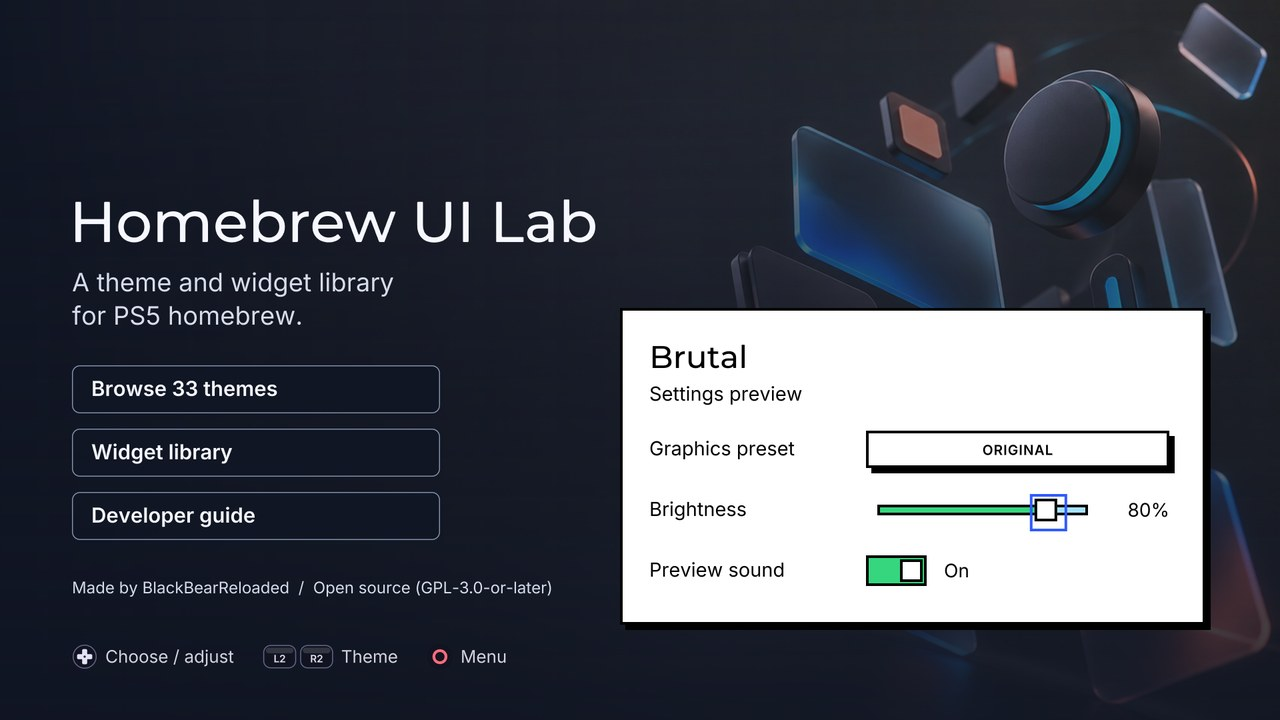
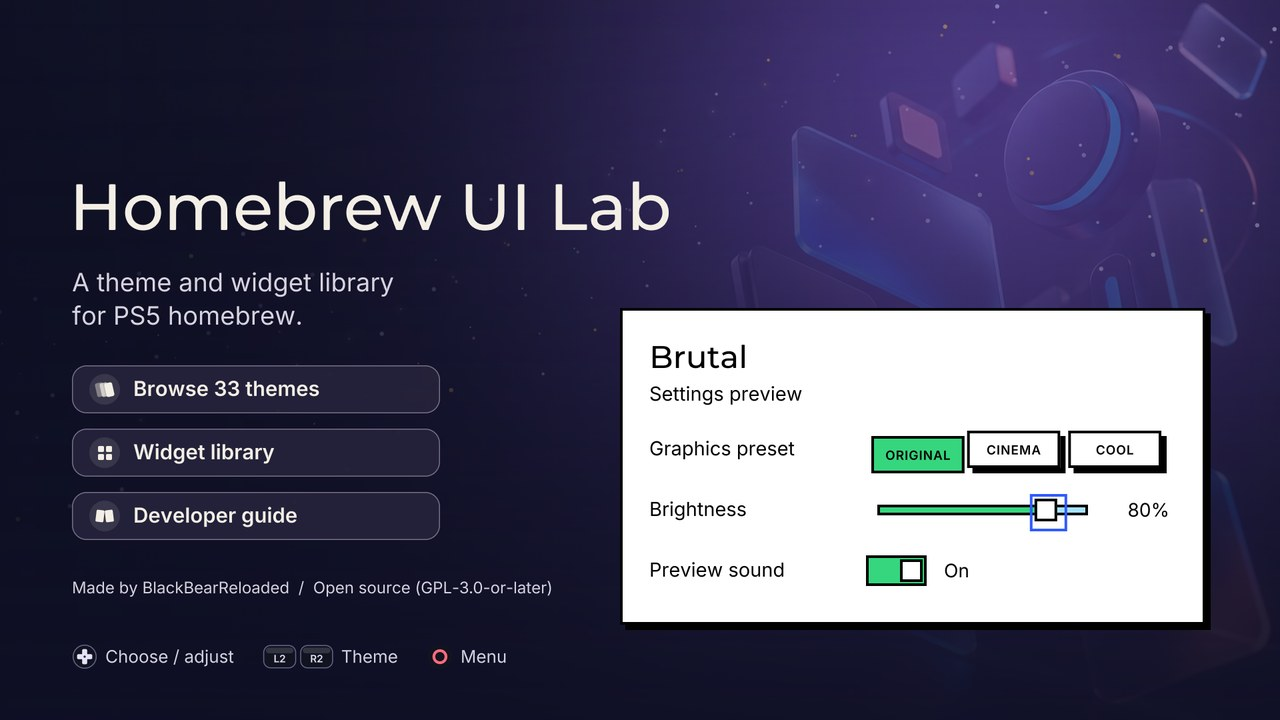
Add a Farlight-inspired particle field and refine landing controls

diff --git a/src/concepts/home.cpp b/src/concepts/home.cpp
@@ -9,6 +9,7 @@
 
 #include <algorithm>
 #include <array>
+#include <cmath>
 #include <cstdio>
 
 namespace hui::concepts
@@ -17,12 +18,15 @@ namespace
 {
 using gfx::Color;
 using gfx::Rect;
-const Color kWhite = Color::rgb(0xf7f8ff);
-const Color kQuiet = Color::rgb(0xd7ddeb);
-const Color kNight = Color::rgb(0x101523);
+const Color kWhite = Color::rgb(0xf4efe6);
+const Color kQuiet = Color::rgb(0xd7d3e0);
+const Color kNight = Color::rgb(0x0e0f24);
+const Color kViolet = Color::rgb(0x42358f);
+const Color kGold = Color::rgb(0xffd166);
 constexpr gfx::ArtworkId kLaunchArtwork = 0x484f4d45;
 constexpr const char *kPresets[] = {"Original", "Cinema", "Cool"};
 constexpr const char *kTechniques[] = {
+    "An indigo particle field with three depths of motion and a still Reduced Motion composition",
     "A playable settings panel drawn from the selected theme's real widget tokens",
     "Large Text reflows the launch actions above the preview",
     "A single developer reference page with the repository address, examples and agent guide",
@@ -119,6 +123,7 @@ class Home final : public app::Concept
         else
             update_actions(input, feedback);
         animate(brightness_motion_, brightness_ / 10.f, dt);
+        animate(preset_motion_, static_cast<float>(preset_), dt);
         animate(sound_motion_, sound_ ? 1.f : 0.f, dt);
         for (int i = 0; i < 3; ++i)
             animate(action_focus_[i], !editing_ && i == action_ ? 1.f : 0.f, dt);
@@ -127,22 +132,7 @@ class Home final : public app::Concept
     void draw(app::Frame &frame) const override
     {
         const ui::Theme theme = ui::with_legibility(ui::themes()[theme_], context_.settings);
-        frame.backdrop = theme.backdrop;
-        frame.backdrop.time = context_.settings.reduced_motion ? 0.f : age_;
-        auto &scene = frame.scene;
-        const gfx::Artwork art =
-            context_.artwork ? context_.artwork->get(kLaunchArtwork) : gfx::Artwork{};
-        if (art.texture)
-        {
-            const Color grade[] = {kWhite, Color::rgb(0xffcfac), Color::rgb(0xb8deff)};
-            scene.image(art.texture, {0, 0, 1920, 1080}, gfx::kFullUv,
-                        gfx::mix(grade[preset_], theme.primary, 0.13f)
-                            .with_alpha(0.53f + brightness_motion_.value * 0.46f));
-        }
-        scene.gradient_rect_h({0, 0, 1920, 1080}, 0, kNight.with_alpha(0.96f),
-                              kNight.with_alpha(0.12f));
-        scene.gradient_rect({0, 0, 1920, 1080}, 0, kNight.with_alpha(0.f),
-                            kNight.with_alpha(0.86f));
+        draw_sky(frame, theme);
         if (builder_)
         {
             draw_builder(frame.overlay);
@@ -151,7 +141,7 @@ class Home final : public app::Concept
         const bool large = context_.settings.large_text;
         const auto &fonts = context_.fonts;
         auto &list = frame.overlay;
-        ui::text(list, fonts.display, "Homebrew UI Lab", 104, large ? 205 : 363, large ? 108 : 86,
+        ui::text(list, fonts.display, "Homebrew UI Lab", 104, large ? 205 : 345, large ? 108 : 98,
                  kWhite);
         if (large)
             ui::text(list, fonts.regular, "A theme and widget library for PS5 homebrew.", 108, 278,
@@ -170,7 +160,7 @@ class Home final : public app::Concept
             const float lift = context_.settings.reduced_motion ? 0.f : action_focus_[i].value;
             const Rect button = large ? Rect{108.f + i * 574.f, 338 - 6 * lift, 550, 82}
                                       : Rect{108 + 9 * lift, 548.f + i * 95.f, 552, 72};
-            action_button(list, button, labels[i], !editing_ && action_ == i);
+            action_button(list, button, i, labels[i], !editing_ && action_ == i);
         }
         frame.glass = theme.style == ui::SurfaceStyle::glass && !theme.solid_surfaces;
         const float arrival = context_.settings.reduced_motion
@@ -183,6 +173,51 @@ class Home final : public app::Concept
     }
 
   private:
+    void draw_sky(app::Frame &frame, const ui::Theme &theme) const
+    {
+        const float t = context_.settings.reduced_motion ? 0.f : age_;
+        const float light = 0.55f + 0.45f * brightness_motion_.value;
+        const Color grades[] = {kViolet, Color::rgb(0x87576f), Color::rgb(0x30568e)};
+        const Color haze = gfx::mix(grades[preset_], theme.primary, 0.12f);
+        frame.backdrop.mode = gfx::BackdropMode::gradient;
+        frame.backdrop.colors[0] = kNight;
+        frame.backdrop.colors[1] = Color::rgb(0x15142c);
+        frame.backdrop.colors[2] = haze;
+        frame.backdrop.params[0] = 0.72f + 0.035f * std::sin(t * 0.06f);
+        frame.backdrop.params[1] = 0.27f + 0.045f * std::sin(t * 0.045f);
+        frame.backdrop.params[2] = 1.35f * light;
+
+        auto &scene = frame.scene;
+        constexpr Rect screen{0, 0, 1920, 1080};
+        if (context_.artwork)
+        {
+            const auto art = context_.artwork->get(kLaunchArtwork);
+            if (art.texture)
+                scene.image(art.texture, screen, gfx::kFullUv, kWhite.with_alpha(0.29f * light));
+        }
+        // Wrap beyond the canvas so particles enter at its edge. Three depths
+        // travel at different speeds along the same broad current.
+        for (int i = 0; i < 156; ++i)
+        {
+            const int depth = i % 3;
+            const float phase = static_cast<float>((i * 53) % 157);
+            const float x = std::fmod(phase * 13.f + t * (7.f + depth * 5.f), 2016.f) - 48.f;
+            const float spread = static_cast<float>((i * 73) % 167) - 83.f;
+            const float ridge = 525.f - 0.19f * x + 100.f * std::sin(x * 0.0034f + t * 0.065f);
+            const float y =
+                ridge + spread * (1.25f + depth * 0.7f) + 18.f * std::sin(phase + t * 0.23f);
+            const float radius = 1.3f + depth * 0.95f;
+            const Color tint = (i % 5 == 0) ? kGold : Color::rgb(0xd4cdff);
+            const float alpha = light * (0.5f + 0.2f * std::sin(phase + t * 0.38f));
+            if (i % 9 == 0)
+                scene.glow({x - radius, y - radius, 2 * radius, 2 * radius}, radius, 12,
+                           tint.with_alpha(alpha * 0.3f));
+            scene.circle(x, y, radius, tint.with_alpha(alpha));
+        }
+        scene.gradient_rect_h(screen, 0, kNight.with_alpha(0.70f), kNight.with_alpha(0.f));
+        scene.gradient_rect(screen, 0, kNight.with_alpha(0.f), kNight.with_alpha(0.86f));
+    }
+
     void animate(tween::Spring &value, float target, float dt) const
     {
         if (context_.settings.reduced_motion)
@@ -261,16 +296,38 @@ class Home final : public app::Concept
         }
     }
 
-    void action_button(gfx::DrawList &list, Rect r, const char *label, bool focus) const
+    void action_button(gfx::DrawList &list, Rect r, int action, const char *label, bool focus) const
     {
         const bool large = context_.settings.large_text;
+        constexpr float corner = 22.f;
+        if (focus)
+            list.glow(r, corner, 18, kGold.with_alpha(0.24f));
         list.bordered_rect(
-            r, 12,
-            focus ? kWhite : kNight.with_alpha(context_.settings.reduce_transparency ? 1.f : 0.84f),
-            focus ? 3.f : 1.5f, focus ? kWhite : Color::rgb(0x8493ac));
-        const Color ink = focus ? kNight : kWhite;
+            r, corner,
+            focus ? kGold
+                  : Color::rgb(0x25233b, context_.settings.reduce_transparency ? 1.f : 0.92f),
+            focus ? 2.f : 1.5f, focus ? Color::rgb(0xffe9b1) : Color::rgb(0x777189));
+        const Color ink = focus ? Color::rgb(0x241a05) : kWhite;
+        const float x = r.x + 49, y = r.cy();
+        list.circle(x, y, 23, ink.with_alpha(0.10f));
+        if (action == 0) // Overlapping colour swatches.
+        {
+            for (int i = 0; i < 3; ++i)
+                list.rotated_rect({x - 13 + i * 7, y - 10, 12, 21}, 3, -0.22f,
+                                  ink.with_alpha(0.4f + i * 0.3f));
+        }
+        else if (action == 1)
+        {
+            for (int i = 0; i < 4; ++i)
+                list.rounded_rect({x - 10 + (i % 2) * 12, y - 10 + (i / 2) * 12, 9, 9}, 2, ink);
+        }
+        else // Open book.
+        {
+            list.rotated_rect({x - 13, y - 9, 12, 18}, 2, 0.12f, ink);
+            list.rotated_rect({x + 1, y - 9, 12, 18}, 2, -0.12f, ink);
+        }
         const float size = large ? 35.f : 31.f;
-        ui::text(list, context_.fonts.semibold, label, r.x + 29, r.cy() + size * 0.32f, size, ink);
+        ui::text(list, context_.fonts.semibold, label, r.x + 92, r.cy() + size * 0.32f, size, ink);
         if (focus)
         {
             list.line(r.x + r.w - 40, r.cy() - 7, r.x + r.w - 32, r.cy(), 3, ink);
@@ -305,7 +362,7 @@ class Home final : public app::Concept
             const Rect r{left + (large ? 386.f : 325.f), cy - 28, large ? 600.f : 455.f, 56};
             const ui::Look look{editing_ && control_ == i ? 1.f : 0.f};
             if (i == 0)
-                paint.button(r, kPresets[preset_], ui::ButtonKind::secondary, look);
+                paint.tabs(r, kPresets, preset_motion_.value, look);
             else if (i == 1)
             {
                 paint.slider({r.x, r.y, r.w - 105, r.h}, brightness_motion_.value, look);
@@ -375,6 +432,7 @@ class Home final : public app::Concept
     float age_ = 0;
     float theme_fade_ = 0;
     tween::Spring brightness_motion_, sound_motion_;
+    tween::Spring preset_motion_;
     std::array<tween::Spring, 3> action_focus_;
 };
 } // namespace

diff --git a/tests/unit/home_test.cpp b/tests/unit/home_test.cpp
@@ -8,6 +8,7 @@
 #include "ui/theme.hpp"
 
 #include <filesystem>
+#include <vector>
 
 namespace
 {
@@ -79,5 +80,27 @@ TEST_F(HomeTest, OlderSavesUseAcrylicAndPreserveGalleryAndAccessibilityPreferenc
     auto truncated = encode_settings(settings_);
     truncated.pop_back();
     EXPECT_FALSE(decode_settings(truncated, &read));
+}
+
+TEST_F(HomeTest, LandingParticlesMoveAtIdleAndStayStillWithReducedMotion)
+{
+    const auto home = concepts::make_home(context_);
+    home->enter();
+    const auto positions = [&]()
+    {
+        app::Frame frame;
+        home->draw(frame);
+        std::vector<float> x;
+        for (const auto &instance : frame.scene.instances())
+            x.push_back(instance.rect[0]);
+        return x;
+    };
+    const auto initial = positions();
+    send(*home, idle(), 1.f);
+    EXPECT_NE(positions(), initial);
+    settings_.reduced_motion = true;
+    const auto still = positions();
+    send(*home, idle(), 1.f);
+    EXPECT_EQ(positions(), still);
 }
 } // namespace

diff --git a/README.md b/README.md
@@ -8,7 +8,8 @@
 
 A small rendering, motion and sound kit, a themeable widget set, and one
 native app that holds a gallery of complete, working UI designs.
-Homebrew UI Lab opens with a playable settings preview. Press **L2** or **R2**
+Homebrew UI Lab opens with a playable settings preview against a drifting indigo
+particle field. Reduced Motion holds the background still. Press **L2** or **R2**
 to try a theme, **Square** to adjust the preview, or **Browse themes** to open
 Theme Lab with that look. **Widget library** opens the Component Library.
 The **Developer guide** shows the repository address and points to the examples and `AGENTS.md`.

diff --git a/docs/DESIGNS.md b/docs/DESIGNS.md
@@ -1106,8 +1106,11 @@ Source: [`src/concepts/journal.cpp`](../src/concepts/journal.cpp) &middot; tests
 
 A playable theme and widget library for PS5 homebrew.
 
+<img src="media/designs/home.webp" width="640" alt="Homebrew UI Lab in motion">
+
 **What it demonstrates**
 
+- An indigo particle field with three depths of motion and a still Reduced Motion composition
 - A playable settings panel drawn from the selected theme's real widget tokens
 - Large Text reflows the launch actions above the preview
 - A single developer reference page with the repository address, examples and agent guide
